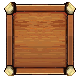
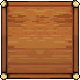
updating visuals of equipment

diff --git a/logic/game/equipment_interaction/EquipmentDisplay.cs b/logic/game/equipment_interaction/EquipmentDisplay.cs
@@ -3,9 +3,6 @@ using Godot;
 public partial class EquipmentDisplay : Control
 {
     [Export]
-    private TextureRect equipmentTextureRect;
-
-    [Export]
     private Control orderDisplayContainer;
 
     [Export]
@@ -37,7 +34,6 @@ public partial class EquipmentDisplay : Control
     public void SetEquipment(Equipment e)
     {
         equipment = e;
-        equipmentTextureRect.Texture = equipment.icon;
     }
 
     public override bool _CanDropData(Vector2 atPosition, Variant data)
@@ -57,6 +53,8 @@ public partial class EquipmentDisplay : Control
         if (data.As<GodotObject>() is not OrderDisplay orderDisplay)
             return;
 
+        //TODO this should update some kind of manager, which should then update the visuals of everything
+        //because we will eventually want to save which order is at which equipment
         Injection.Get<OrderManager>().OnOrderMovedToEquipment(this.equipment, orderDisplay.order);
         
         currentOrderDisplay = orderDisplay;
